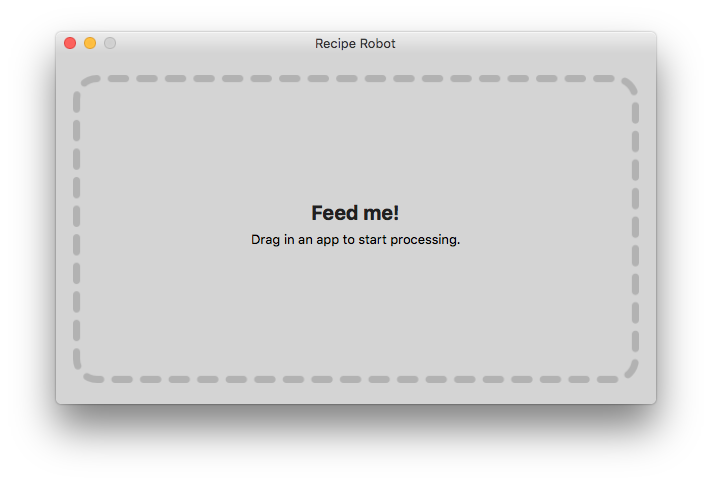
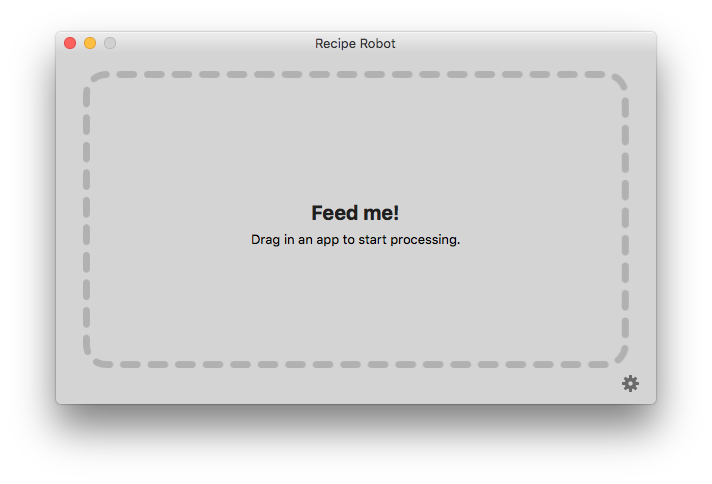
Updated readme with new screenshots and example.

Changed region(s): [[0.0927, 0.124, 0.8961, 0.8058]]

diff --git a/README.md b/README.md
@@ -45,7 +45,7 @@ Then click __Good to Go__.
 
 Now you're ready to build some recipes! Drag in an app that you want to create recipes for.
 
-The Recipe Robot app works best with apps that have a Sparkle feed, and for which there are no existing AutoPkg recipes.
+IMPORTANT: The Recipe Robot app currently works best with apps that have a Sparkle feed, and for which there are no existing AutoPkg recipes.
 
 ![Mac App - Feed Me](images/app-feedme.png)
 
@@ -64,7 +64,7 @@ And if you click on the folder icon, you'll be taken to the finished recipes.
 
 ## Python Script Usage
 
-If you prefer to use the command-line version of Recipe Robot, just install the latest version of Recipe Robot in your Applications folder, open Terminal, and type:
+Recipe Robot's Mac app is designed to be easy to use, but it's the Python script that contains the real horsepower. To use it, just install the latest version of Recipe Robot in your Applications folder, open Terminal, and type:
 
 ```
 /Applications/Recipe\ Robot.app/Contents/Resources/scripts/recipe-robot <input>
@@ -80,11 +80,11 @@ For `<input>`, you can use one of several types of information:
 
 The first time Recipe Robot runs, you'll be prompted for some information. On subsequent runs, you can use the `--config` argument to force this prompt to return.
 
-Here's what Recipe Robot looks like when it's working properly. The command I used was: `recipe-robot http://delicious-monster.com/downloads/DeliciousLibrary3.zip`
+Here's what Recipe Robot looks like when it's working properly. The command I used was: `recipe-robot --verbose /Applications/coconutBattery.app`
 
 ```
                       -----------------------------------
-                     |  Welcome to Recipe Robot v0.2.0.  |
+                     |  Welcome to Recipe Robot v0.2.1.  |
                       -----------------------------------
                                 \   _[]_
                                  \  [oo]
@@ -92,73 +92,48 @@ Here's what Recipe Robot looks like when it's working properly. The command I us
                                      ||
                                    _/  \_
 
-Processing http://delicious-monster.com/downloads/DeliciousLibrary3.zip ...
-Generating download recipe...
-    ~/Library/AutoPkg/Recipe Robot Output/Delicious Monster Software, LLC/Delicious Library 3.download.recipe
-Generating munki recipe...
-    ~/Library/AutoPkg/Recipe Robot Output/Delicious Monster Software, LLC/Delicious Library 3.png
-    ~/Library/AutoPkg/Recipe Robot Output/Delicious Monster Software, LLC/Delicious Library 3.munki.recipe
-Generating pkg recipe...
-    ~/Library/AutoPkg/Recipe Robot Output/Delicious Monster Software, LLC/Delicious Library 3.pkg.recipe
-Generating install recipe...
-    ~/Library/AutoPkg/Recipe Robot Output/Delicious Monster Software, LLC/Delicious Library 3.install.recipe
-
-You've now created 4 recipes with Recipe Robot. Well done!
-```
-
-If you use the `--verbose` argument, you'll get a little more information about what's going on:
-
-```
-                      -----------------------------------
-                     |  Welcome to Recipe Robot v0.2.0.  |
-                      -----------------------------------
-                                \   _[]_
-                                 \  [oo]
-                                   d-||-b
-                                     ||
-                                   _/  \_
-
-Processing http://delicious-monster.com/downloads/DeliciousLibrary3.zip ...
-Input path looks like a download URL.
-    Download URL is: http://delicious-monster.com/downloads/DeliciousLibrary3.zip
-Downloading file for further inspection...
-    Downloaded to ~/Library/Caches/Recipe Robot/2015-10-16_07-53-22_632100/DeliciousLibrary3.zip
-Determining download format...
-    File extension is zip
-Opening downloaded file...
-    Successfully unarchived zip
+Processing /Applications/coconutBattery.app ...
+Input path looks like an app.
 Validating app...
     App seems valid
 Getting app name...
-    App name is: Delicious Library 3
+    App name is: coconutBattery
 Getting bundle identifier...
-    Bundle idenfitier is: com.delicious-monster.library3
+    Bundle idenfitier is: com.coconut-flavour.coconutBattery
 Checking for a Sparkle feed...
-    No Sparkle feed
+    Sparkle feed is: http://updates.coconut-flavour.com/coconutBatteryIntel.xml
+Getting information from Sparkle feed...
+    The Sparkle feed provides a version number
+    The latest version is 3.2.1
+    Download URL is: http://www.coconut-flavour.com/downloads/coconutBattery_3_2_1.zip
+Downloading file for further inspection...
+    Downloaded to ~/Library/Caches/Recipe Robot/2015-11-02_11-55-06_687672/coconutBattery_3_2_1.zip
+Determining download format...
+    File extension is zip
 Looking for version key...
-    Version key is: CFBundleShortVersionString (3.3.5)
+    Version key is: CFBundleShortVersionString (3.2.1)
 Looking for app icon...
-    App icon is: ~/Library/Caches/Recipe Robot/2015-10-16_07-53-22_632100/unpacked/Delicious Library 3.app/Contents/Resources/Delicious Library.icns
+    App icon is: /Applications/coconutBattery.app/Contents/Resources/icon1024
 Getting app description from MacUpdate...
-    Description: Import, browse and share your media.
+    Description: Displays info about your laptop battery.
 Gathering code signature information...
     Code signature verification requirements recorded
     3 authority names recorded
-    Developer: Delicious Monster Software, LLC
+    Developer: Christoph Sinai
 Generating download recipe...
-    ~/Library/AutoPkg/Recipe Robot Output/Delicious Monster Software, LLC/Delicious Library 3.download.recipe
+    ~/Library/AutoPkg/Recipe Robot Output/Christoph Sinai/coconutBattery.download.recipe
 Generating munki recipe...
-    ~/Library/AutoPkg/Recipe Robot Output/Delicious Monster Software, LLC/Delicious Library 3.png
-    ~/Library/AutoPkg/Recipe Robot Output/Delicious Monster Software, LLC/Delicious Library 3.munki.recipe
+    ~/Library/AutoPkg/Recipe Robot Output/Christoph Sinai/coconutBattery.png
+    ~/Library/AutoPkg/Recipe Robot Output/Christoph Sinai/coconutBattery.munki.recipe
 Generating pkg recipe...
-    ~/Library/AutoPkg/Recipe Robot Output/Delicious Monster Software, LLC/Delicious Library 3.pkg.recipe
+    ~/Library/AutoPkg/Recipe Robot Output/Christoph Sinai/coconutBattery.pkg.recipe
 Generating install recipe...
-    ~/Library/AutoPkg/Recipe Robot Output/Delicious Monster Software, LLC/Delicious Library 3.install.recipe
+    ~/Library/AutoPkg/Recipe Robot Output/Christoph Sinai/coconutBattery.install.recipe
 
 You've now created 4 recipes with Recipe Robot. Round of applause for you!
 ```
 
-It's fun to see the details, and it proves very useful for troubleshooting.
+It's fun to see the `--verbose` details, and it proves very useful for troubleshooting.
 
 
 ## Tips
